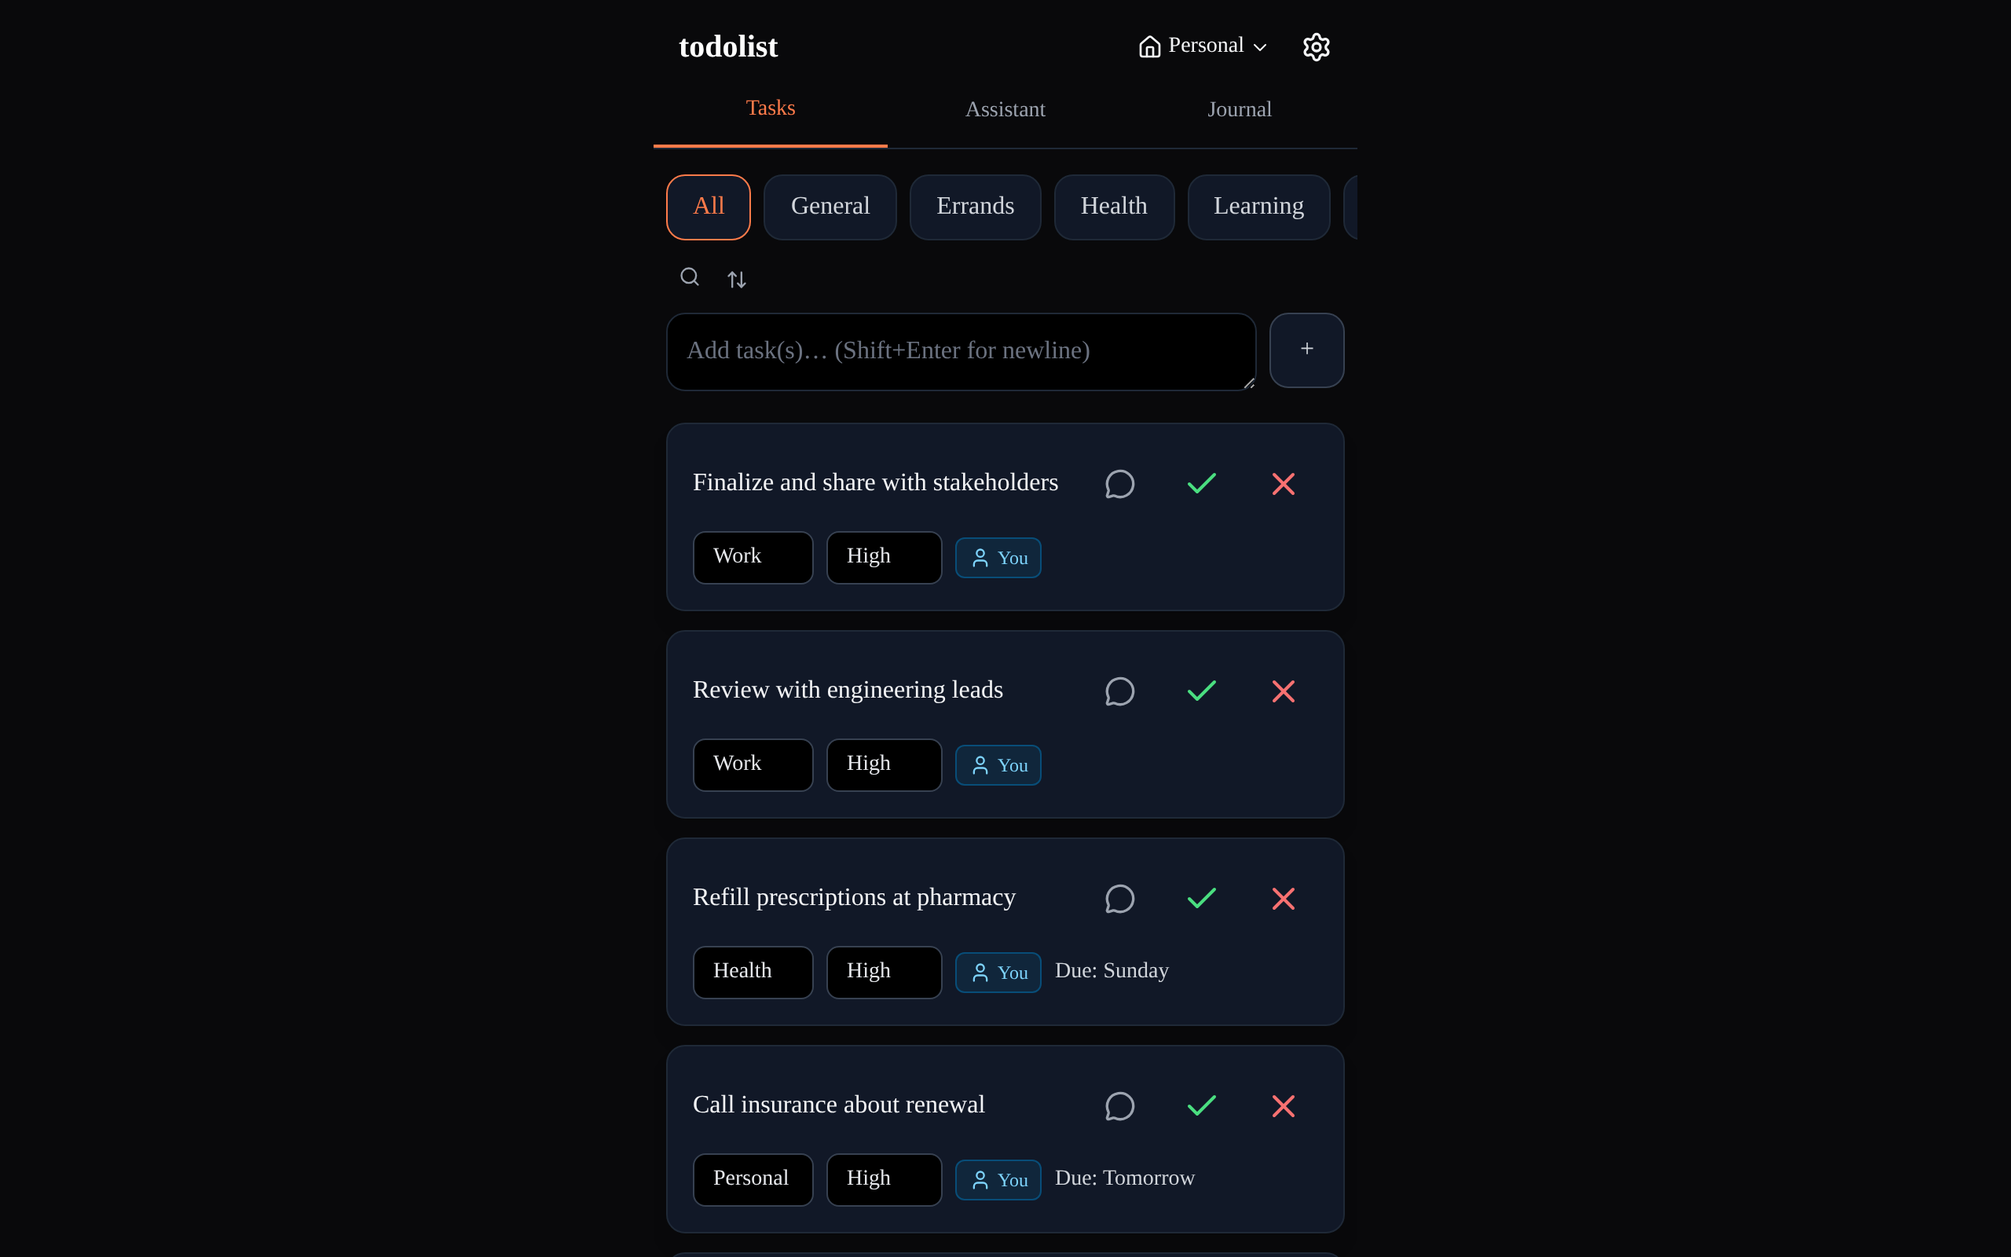
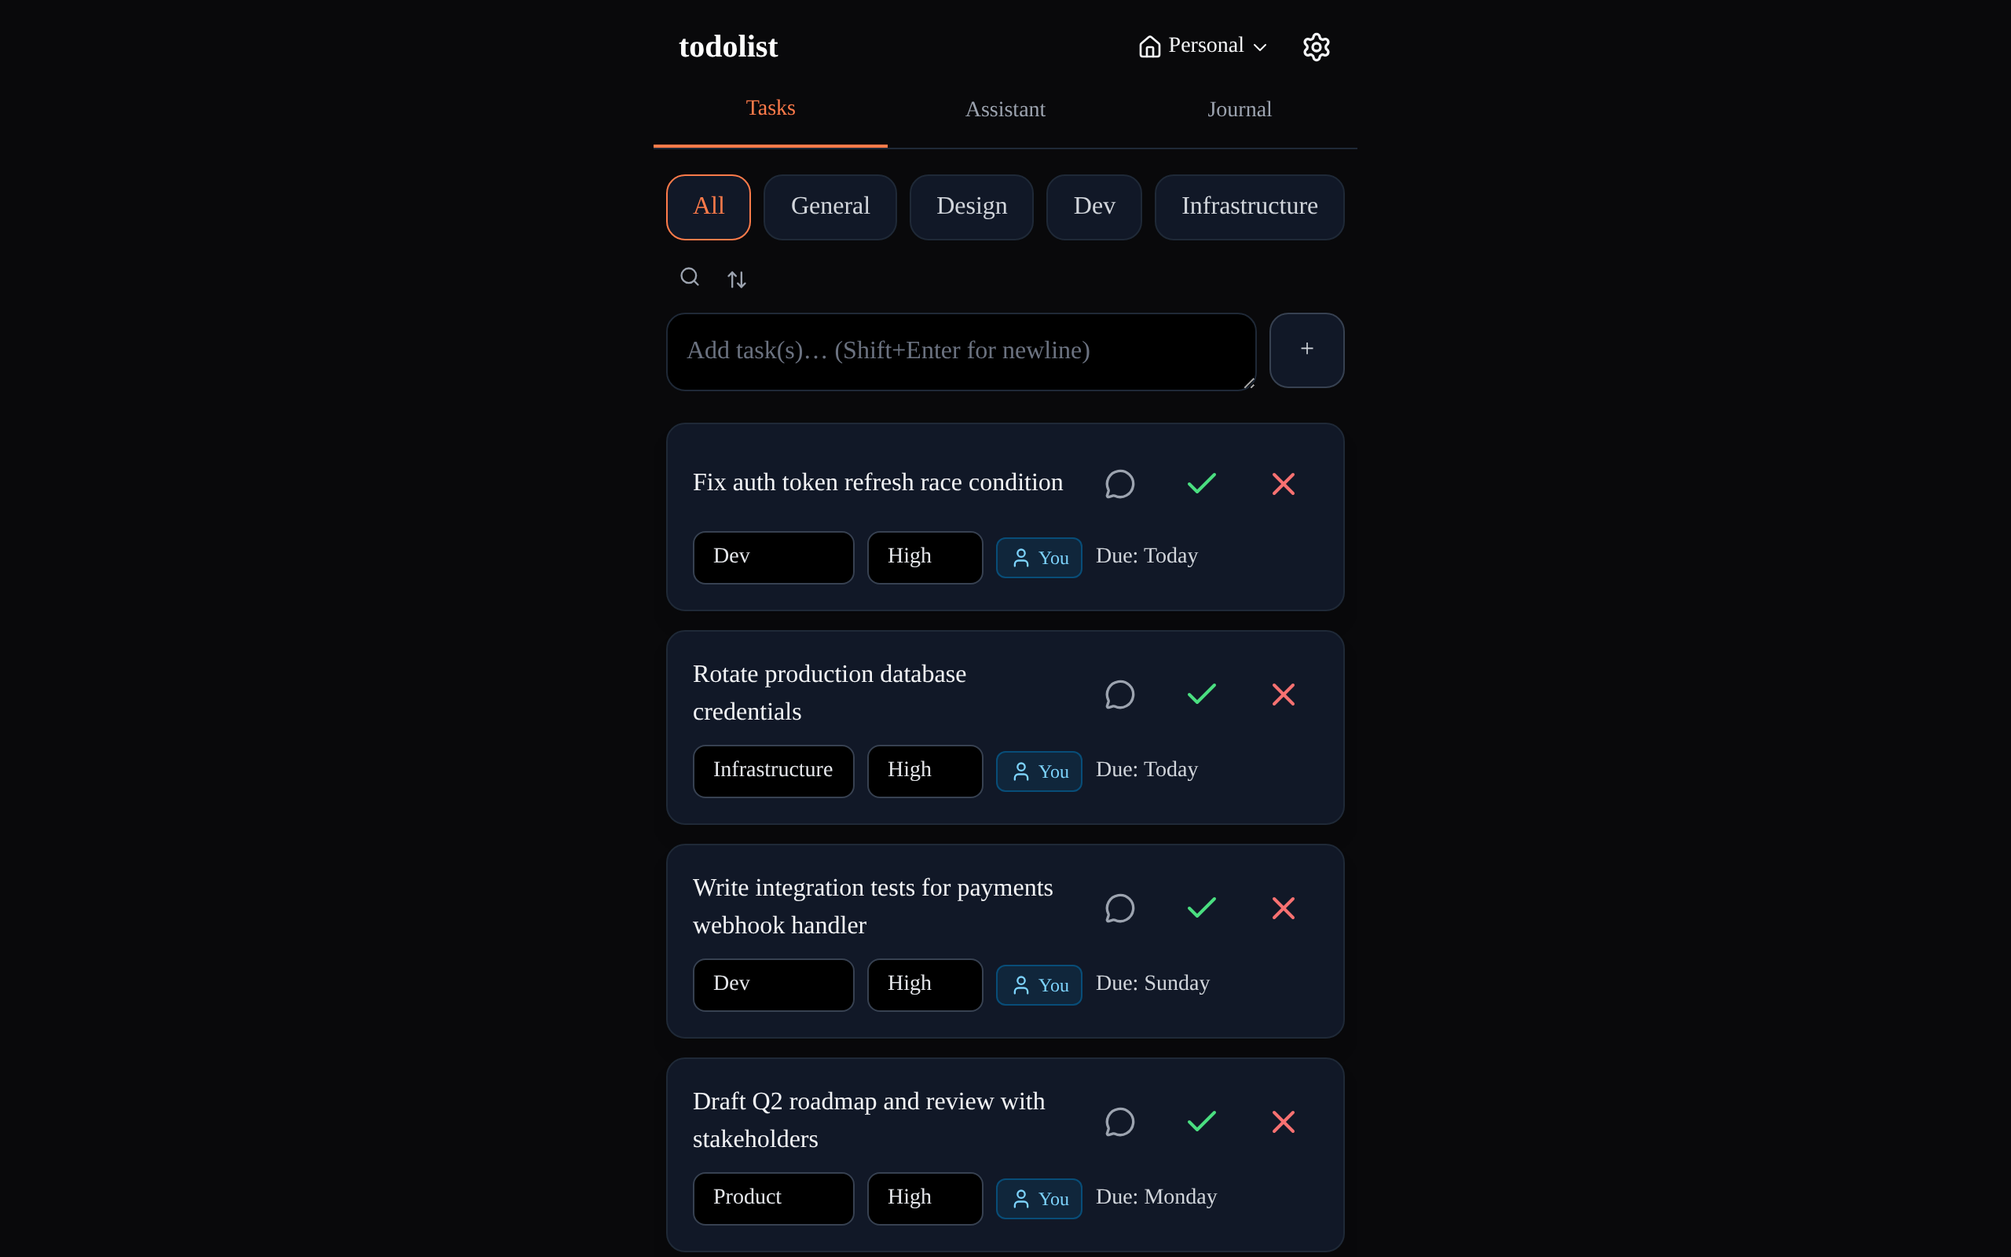
Update screenshot script with developer-focused demo data and fresh screenshots
- Replace generic categories (Work, Health, Errands) with dev-relevant ones
  (Dev, Product, Infrastructure, Design, Personal)
- Use realistic developer tasks (auth fixes, PR reviews, staging deploys, etc.)
- Optimize task creation order so auto-sort shows diverse categories in viewport
- Add developer-themed journal entries matching the task context
- Create assistant chat session with migration strategy conversation
- Remove subtask creation that caused rendering issues with running frontend
- Take fresh screenshots with improved demo data

diff --git a/scripts/take-readme-screenshots.js b/scripts/take-readme-screenshots.js
@@ -74,13 +74,11 @@ const API_PREFIXES = [
 ];
 
 function isApiRequest(pathname) {
-  // Match both direct paths (/todos) and proxy paths (/api/todos)
   const cleanPath = pathname.startsWith('/api/') ? pathname.slice(4) : pathname;
   return API_PREFIXES.some(prefix => cleanPath.startsWith(prefix));
 }
 
 function getBackendPath(pathname) {
-  // Strip /api/ prefix if present to get the backend path
   return pathname.startsWith('/api/') ? pathname.slice(4) : pathname;
 }
 
@@ -101,7 +99,7 @@ function getBackendPath(pathname) {
 
   // ── 2. Create categories ──────────────────────────────────────
   console.log('2. Creating categories...');
-  const categories = ['Work', 'Personal', 'Health', 'Learning', 'Errands'];
+  const categories = ['Dev', 'Product', 'Infrastructure', 'Design', 'Personal'];
   for (const name of categories) {
     await api('POST', '/categories', token, { name, space_id: spaceId });
   }
@@ -110,7 +108,6 @@ function getBackendPath(pathname) {
   // ── 3. Populate demo tasks ──────────────────────────────────
   console.log('3. Adding demo tasks...');
 
-  // Helper to generate ISO date strings relative to today
   const today = new Date();
   const dayOffset = (days) => {
     const d = new Date(today);
@@ -118,89 +115,86 @@ function getBackendPath(pathname) {
     return d.toISOString().slice(0, 10);
   };
 
+  // Realistic developer task list — ordered so auto sort (High -> newest first)
+  // shows the most visually diverse tasks at the top of the viewport.
+  // Auto sort: High priority first, then by dateAdded desc (newest first).
+  // So the LAST-created High-priority task appears first.
   const todos = [
-    // Work tasks — mix of active, completed, with due dates
-    { text: 'Review Q1 roadmap and update milestones', completed: false, category: 'Work', priority: 'High', dueDate: dayOffset(2) },
-    { text: 'Prepare slides for Monday standup', completed: false, category: 'Work', priority: 'High', dueDate: dayOffset(1) },
-    { text: 'Deploy v2.4 hotfix to production', completed: true, category: 'Work', priority: 'High' },
-    { text: 'Write integration tests for payments API', completed: false, category: 'Work', priority: 'Medium', dueDate: dayOffset(5) },
-    { text: 'Refactor auth middleware to support OAuth', completed: false, category: 'Work', priority: 'Medium', dueDate: dayOffset(7) },
-    { text: 'Code review: PR #218 search optimization', completed: true, category: 'Work', priority: 'Medium' },
-    { text: 'Update CI pipeline for Node 22', completed: true, category: 'Work', priority: 'Low' },
+    // Completed tasks (these go to Completed tab, order doesn't matter for screenshot)
+    { text: 'Upgrade Next.js to v15 and fix breaking changes', completed: true, category: 'Dev', priority: 'High' },
+    { text: 'Fix N+1 query in dashboard analytics endpoint', completed: true, category: 'Dev', priority: 'High' },
+    { text: 'Ship pricing page A/B test results', completed: true, category: 'Product', priority: 'High' },
+    { text: 'Migrate CI from CircleCI to GitHub Actions', completed: true, category: 'Infrastructure', priority: 'Medium' },
+    { text: 'Submit expense report for team offsite', completed: true, category: 'Personal', priority: 'Medium' },
 
-    // Personal tasks
-    { text: 'Plan weekend trip to the mountains', completed: false, category: 'Personal', priority: 'Medium', dueDate: dayOffset(4) },
-    { text: 'Call insurance about renewal', completed: false, category: 'Personal', priority: 'High', dueDate: dayOffset(1) },
-    { text: 'Send birthday gift to Sarah', completed: true, category: 'Personal', priority: 'High' },
-    { text: 'Organize closet and donate old clothes', completed: false, category: 'Personal', priority: 'Low' },
+    // Low priority (appear at bottom)
+    { text: 'Add OpenTelemetry tracing to API gateway', completed: false, category: 'Dev', priority: 'Low' },
+    { text: 'Update component library with new color tokens', completed: false, category: 'Design', priority: 'Low' },
+    { text: 'Finish reading "Designing Data-Intensive Applications"', completed: false, category: 'Personal', priority: 'Low' },
 
-    // Health tasks
-    { text: 'Schedule annual physical', completed: false, category: 'Health', priority: 'Medium', dueDate: dayOffset(10) },
-    { text: 'Meal prep: chicken + veggie bowls', completed: false, category: 'Health', priority: 'Medium', dueDate: dayOffset(0) },
-    { text: 'Morning run — 5K', completed: true, category: 'Health', priority: 'Low' },
-    { text: 'Refill prescriptions at pharmacy', completed: false, category: 'Health', priority: 'High', dueDate: dayOffset(2) },
+    // Medium priority (appear in middle)
+    { text: 'Write spec for collaborative editing feature', completed: false, category: 'Product', priority: 'Medium', dueDate: dayOffset(7) },
+    { text: 'Review mobile nav redesign mockups', completed: false, category: 'Design', priority: 'Medium', dueDate: dayOffset(1) },
+    { text: 'Analyze user drop-off in onboarding funnel', completed: false, category: 'Product', priority: 'Medium', dueDate: dayOffset(4) },
+    { text: 'Configure Datadog alerts for P99 latency > 500ms', completed: false, category: 'Infrastructure', priority: 'Medium', dueDate: dayOffset(3) },
+    { text: 'Migrate user sessions from Redis to PostgreSQL', completed: false, category: 'Dev', priority: 'Medium', dueDate: dayOffset(5) },
+    { text: 'Review PR #342 — search query optimization', completed: false, category: 'Dev', priority: 'Medium', dueDate: dayOffset(1) },
 
-    // Learning tasks
-    { text: 'Finish Rust ownership chapter', completed: false, category: 'Learning', priority: 'Medium', dueDate: dayOffset(3) },
-    { text: 'Watch MIT distributed systems lecture 6', completed: false, category: 'Learning', priority: 'Low' },
-    { text: 'Complete LeetCode daily challenge', completed: true, category: 'Learning', priority: 'Medium' },
-
-    // Errands
-    { text: 'Pick up dry cleaning', completed: false, category: 'Errands', priority: 'Low', dueDate: dayOffset(1) },
-    { text: 'Return Amazon package at UPS', completed: false, category: 'Errands', priority: 'Medium', dueDate: dayOffset(0) },
-    { text: 'Get car oil change', completed: true, category: 'Errands', priority: 'Medium' },
+    // High priority — created LAST so they appear first in auto sort.
+    // Order: last created = top of list. We want diverse categories visible.
+    { text: 'Set up staging environment on AWS ECS', completed: false, category: 'Infrastructure', priority: 'High', dueDate: dayOffset(2) },
+    { text: 'Book flights for React Summit conference', completed: false, category: 'Personal', priority: 'High', dueDate: dayOffset(5) },
+    { text: 'Draft Q2 roadmap and review with stakeholders', completed: false, category: 'Product', priority: 'High', dueDate: dayOffset(3) },
+    { text: 'Write integration tests for payments webhook handler', completed: false, category: 'Dev', priority: 'High', dueDate: dayOffset(2) },
+    { text: 'Rotate production database credentials', completed: false, category: 'Infrastructure', priority: 'High', dueDate: dayOffset(0) },
+    { text: 'Fix auth token refresh race condition', completed: false, category: 'Dev', priority: 'High', dueDate: dayOffset(0) },
   ];
 
-  const createdTodos = [];
   for (const todo of todos) {
-    const result = await api('POST', '/todos', token, { ...todo, space_id: spaceId });
-    createdTodos.push(result);
+    await api('POST', '/todos', token, { ...todo, space_id: spaceId });
   }
   console.log(`   Added ${todos.length} tasks`);
 
-  // ── 4. Add subtasks to a parent task ─────────────────────────
-  console.log('4. Adding subtasks...');
-  // Find the "Review Q1 roadmap" task to add subtasks to
-  const parentTodo = createdTodos[0]; // "Review Q1 roadmap and update milestones"
-  const subtasks = [
-    { text: 'Collect team status updates', completed: true, category: 'Work', priority: 'Medium' },
-    { text: 'Draft milestone timeline', completed: true, category: 'Work', priority: 'Medium' },
-    { text: 'Review with engineering leads', completed: false, category: 'Work', priority: 'High' },
-    { text: 'Finalize and share with stakeholders', completed: false, category: 'Work', priority: 'High' },
-  ];
-  for (const sub of subtasks) {
-    await api('POST', '/todos', token, { ...sub, space_id: spaceId, parent_id: parentTodo._id });
-  }
-  console.log(`   Added ${subtasks.length} subtasks`);
-
-  // ── 5. Add journal entries ───────────────────────────────────
-  console.log('5. Adding journal entries...');
+  // ── 4. Add journal entries ───────────────────────────────────
+  console.log('4. Adding journal entries...');
   const journals = [
-    { date: dayOffset(0), text: 'Productive morning — knocked out the hotfix deploy before standup. The payments API tests are coming along; should finish integration coverage by end of week.\n\nHad a great 1:1 with Jamie about the OAuth refactor. We agreed on the middleware pattern and she\'ll pair with me Thursday.\n\nAfternoon: reviewed the search optimization PR. Clean implementation, left a few comments on edge cases. Approved after the fixes.\n\nEvening run felt good — 5K in 24:30. Slowly getting faster.' },
-    { date: dayOffset(-1), text: 'Deep work day. Spent most of the morning on the Rust ownership chapter — the borrow checker is finally clicking.\n\nLunch break: watched half of the MIT distributed systems lecture. Raft consensus is elegant.\n\nAfternoon was errands and life admin. Got the car serviced, picked up prescriptions.\n\nPlanning the mountain trip this weekend. Found a cabin with good reviews near the trailhead.' },
-    { date: dayOffset(-2), text: 'Monday standup went well — team is aligned on Q1 priorities.\n\nSpent the day on CI pipeline migration to Node 22. A few package compatibility issues but nothing major. Tests all passing now.\n\nSarah loved the birthday gift! The personalized notebook was a good call.\n\nWinding down with some LeetCode — the daily challenge was a fun graph problem.' },
+    { date: dayOffset(0), text: 'Productive morning — fixed the auth token race condition before standup. The issue was a missing mutex on the refresh endpoint; two concurrent requests could both trigger a refresh and invalidate each other\'s tokens.\n\nAfternoon deep work on the payments webhook handler. Stripe\'s idempotency key handling is tricky but the test coverage is solid now. Need to add edge cases for partial refunds tomorrow.\n\nQuick sync with Jamie about the staging environment — ECS cluster is up, just need the load balancer configured. Should be ready for QA by Thursday.\n\nEvening: read two chapters of DDIA. The section on linearizability vs serializability finally clicked.' },
+    { date: dayOffset(-1), text: 'Started the day reviewing PR #342 — clever approach to search optimization using trigram indexes. Left a few comments about query plan caching but approved after the fixes.\n\nSpent most of the afternoon on the Q2 roadmap draft. Customer survey results are in — top requests are collaborative editing and better mobile experience. Both align with what we\'ve been planning.\n\nGood 1:1 with the team about the Redis to PostgreSQL migration. We\'ll go with a dual-write approach to avoid downtime. Target is end of month.\n\nBookmarked flights for React Summit — early bird pricing ends Friday.' },
+    { date: dayOffset(-2), text: 'Monday kickoff meeting went well. Team aligned on sprint priorities: auth fix, staging env, and the search optimization PR are the top three.\n\nMigrated CI from CircleCI to GitHub Actions. Build times dropped from 12 minutes to 4 minutes with better caching. The matrix strategy for running tests across Node versions is much cleaner.\n\nFixed the N+1 query in the dashboard analytics endpoint — was hitting the DB 200+ times for a single page load. Single aggregation pipeline now, response time went from 2.3s to 180ms.\n\nSubmitted expense report for last week\'s team offsite. Good team bonding over the escape room.' },
   ];
   for (const j of journals) {
     await api('POST', '/journals', token, { ...j, space_id: spaceId });
   }
   console.log('   Added 3 journal entries');
 
+  // ── 5. Create chat sessions for assistant tab ──────────────────
+  console.log('5. Creating chat sessions...');
+  const assistantSession = await api('POST', '/agent/sessions', token, {
+    space_id: spaceId,
+    title: 'Help with Redis to PostgreSQL migration',
+    initial_message: 'I need to migrate our user session store from Redis to PostgreSQL. What are the best strategies for zero-downtime migration?',
+    initial_role: 'user',
+  });
+  const assistantSessionId = assistantSession.session_id || assistantSession._id;
+  await api('POST', `/agent/sessions/${assistantSessionId}/messages`, token, {
+    role: 'assistant',
+    content: 'Great question! For a zero-downtime Redis to PostgreSQL migration, I recommend a **dual-write strategy** with these phases:\n\n**Phase 1 — Dual Write:**\n- Write to both Redis and PostgreSQL simultaneously\n- Read from Redis (still the primary)\n- This validates PostgreSQL can handle the write load\n\n**Phase 2 — Shadow Read:**\n- Continue dual-writing\n- Read from both and compare results\n- Log any discrepancies for investigation\n\n**Phase 3 — Cutover:**\n- Switch reads to PostgreSQL\n- Keep Redis writes as a fallback for 48 hours\n- Monitor latency and error rates\n\n**Phase 4 — Cleanup:**\n- Remove Redis writes\n- Decommission Redis instance\n\nWant me to create subtasks for each phase?',
+  });
+  console.log('   Created chat session with messages');
+
   // ── 6. Launch browser with route interception ────────────────
   console.log('\n6. Launching browser...');
   const browser = await chromium.launch({ headless: true });
 
-  // Disable service worker so we control all routing
   const context = await browser.newContext({
     viewport: { width: 1280, height: 800 },
     deviceScaleFactor: 2,
     colorScheme: 'dark',
-    serviceWorkers: 'block',  // Block service workers
+    serviceWorkers: 'block',
   });
   const page = await context.newPage();
 
-  // Intercept all API requests and proxy them to the backend with auth.
-  // With service workers blocked, fetch('/todos') goes to Next.js which doesn't
-  // have a route for it (only /api/[...proxy]). We intercept and proxy to backend.
+  // Intercept all API requests and proxy them to the backend with auth
   await page.route('**/*', async (route) => {
     const request = route.request();
     let url;
@@ -212,12 +206,9 @@ function getBackendPath(pathname) {
     }
 
     const frontendOrigin = new URL(FRONTEND_URL).origin;
-    // Only intercept same-origin API requests
     if (url.origin === frontendOrigin && isApiRequest(url.pathname)) {
-      // Forward to backend directly (strip /api/ prefix if present)
       const backendPath = getBackendPath(url.pathname);
       const backendUrl = `${BACKEND_URL}${backendPath}${url.search}`;
-      // console.log(`   [proxy] ${request.method()} ${url.pathname} -> ${backendUrl}`);
 
       try {
         const fetchOpts = {
@@ -232,7 +223,6 @@ function getBackendPath(pathname) {
           if (postData) fetchOpts.body = postData;
         }
 
-        // Use Node.js fetch (available in Node 18+)
         const resp = await fetch(backendUrl, fetchOpts);
         const body = await resp.text();
 
@@ -296,30 +286,41 @@ function getBackendPath(pathname) {
     await page.waitForTimeout(2000);
   };
 
-  // ── Task List (Active tab) ──────────────────────────────────────
+  // ── Screenshots ──────────────────────────────────────────────────
   console.log('\n7. Taking screenshots...');
+
+  // Task List (Active tab)
   await goTab('Tasks');
   await page.waitForTimeout(2000);
-
-  // Try to expand subtasks on the first task if there's a toggle button
-  try {
-    const subtaskToggle = await page.$('button[title*="subtask" i], button[aria-label*="subtask" i], [data-testid="subtask-toggle"]');
-    if (subtaskToggle) {
-      await subtaskToggle.click();
-      await page.waitForTimeout(1000);
-    }
-  } catch {}
-
   await ss('task-list.png');
 
-  // ── Journal ────────────────────────────────────────────────────
+  // Journal
   await goTab('Journal');
   await page.waitForTimeout(2000);
   await ss('journal.png');
 
-  // ── Assistant ──────────────────────────────────────────────────
+  // Assistant — try to load the conversation we created
   await goTab('Assistant');
   await page.waitForTimeout(2000);
+
+  // Try to open "Past Chats" dropdown and click the session
+  try {
+    const pastChatsBtn = await page.$('button:has-text("Past Chats")');
+    if (pastChatsBtn) {
+      await pastChatsBtn.click();
+      await page.waitForTimeout(1000);
+      // Click the first session in the dropdown
+      const sessionItem = await page.$('text=Help with Redis to PostgreSQL migration');
+      if (sessionItem) {
+        await sessionItem.click();
+        await page.waitForTimeout(2000);
+        console.log('   Loaded assistant conversation');
+      }
+    }
+  } catch (e) {
+    console.log('   Could not load session:', e.message);
+  }
+
   await ss('assistant.png');
 
   console.log('\nDone! Screenshots saved to docs/screenshots/');
